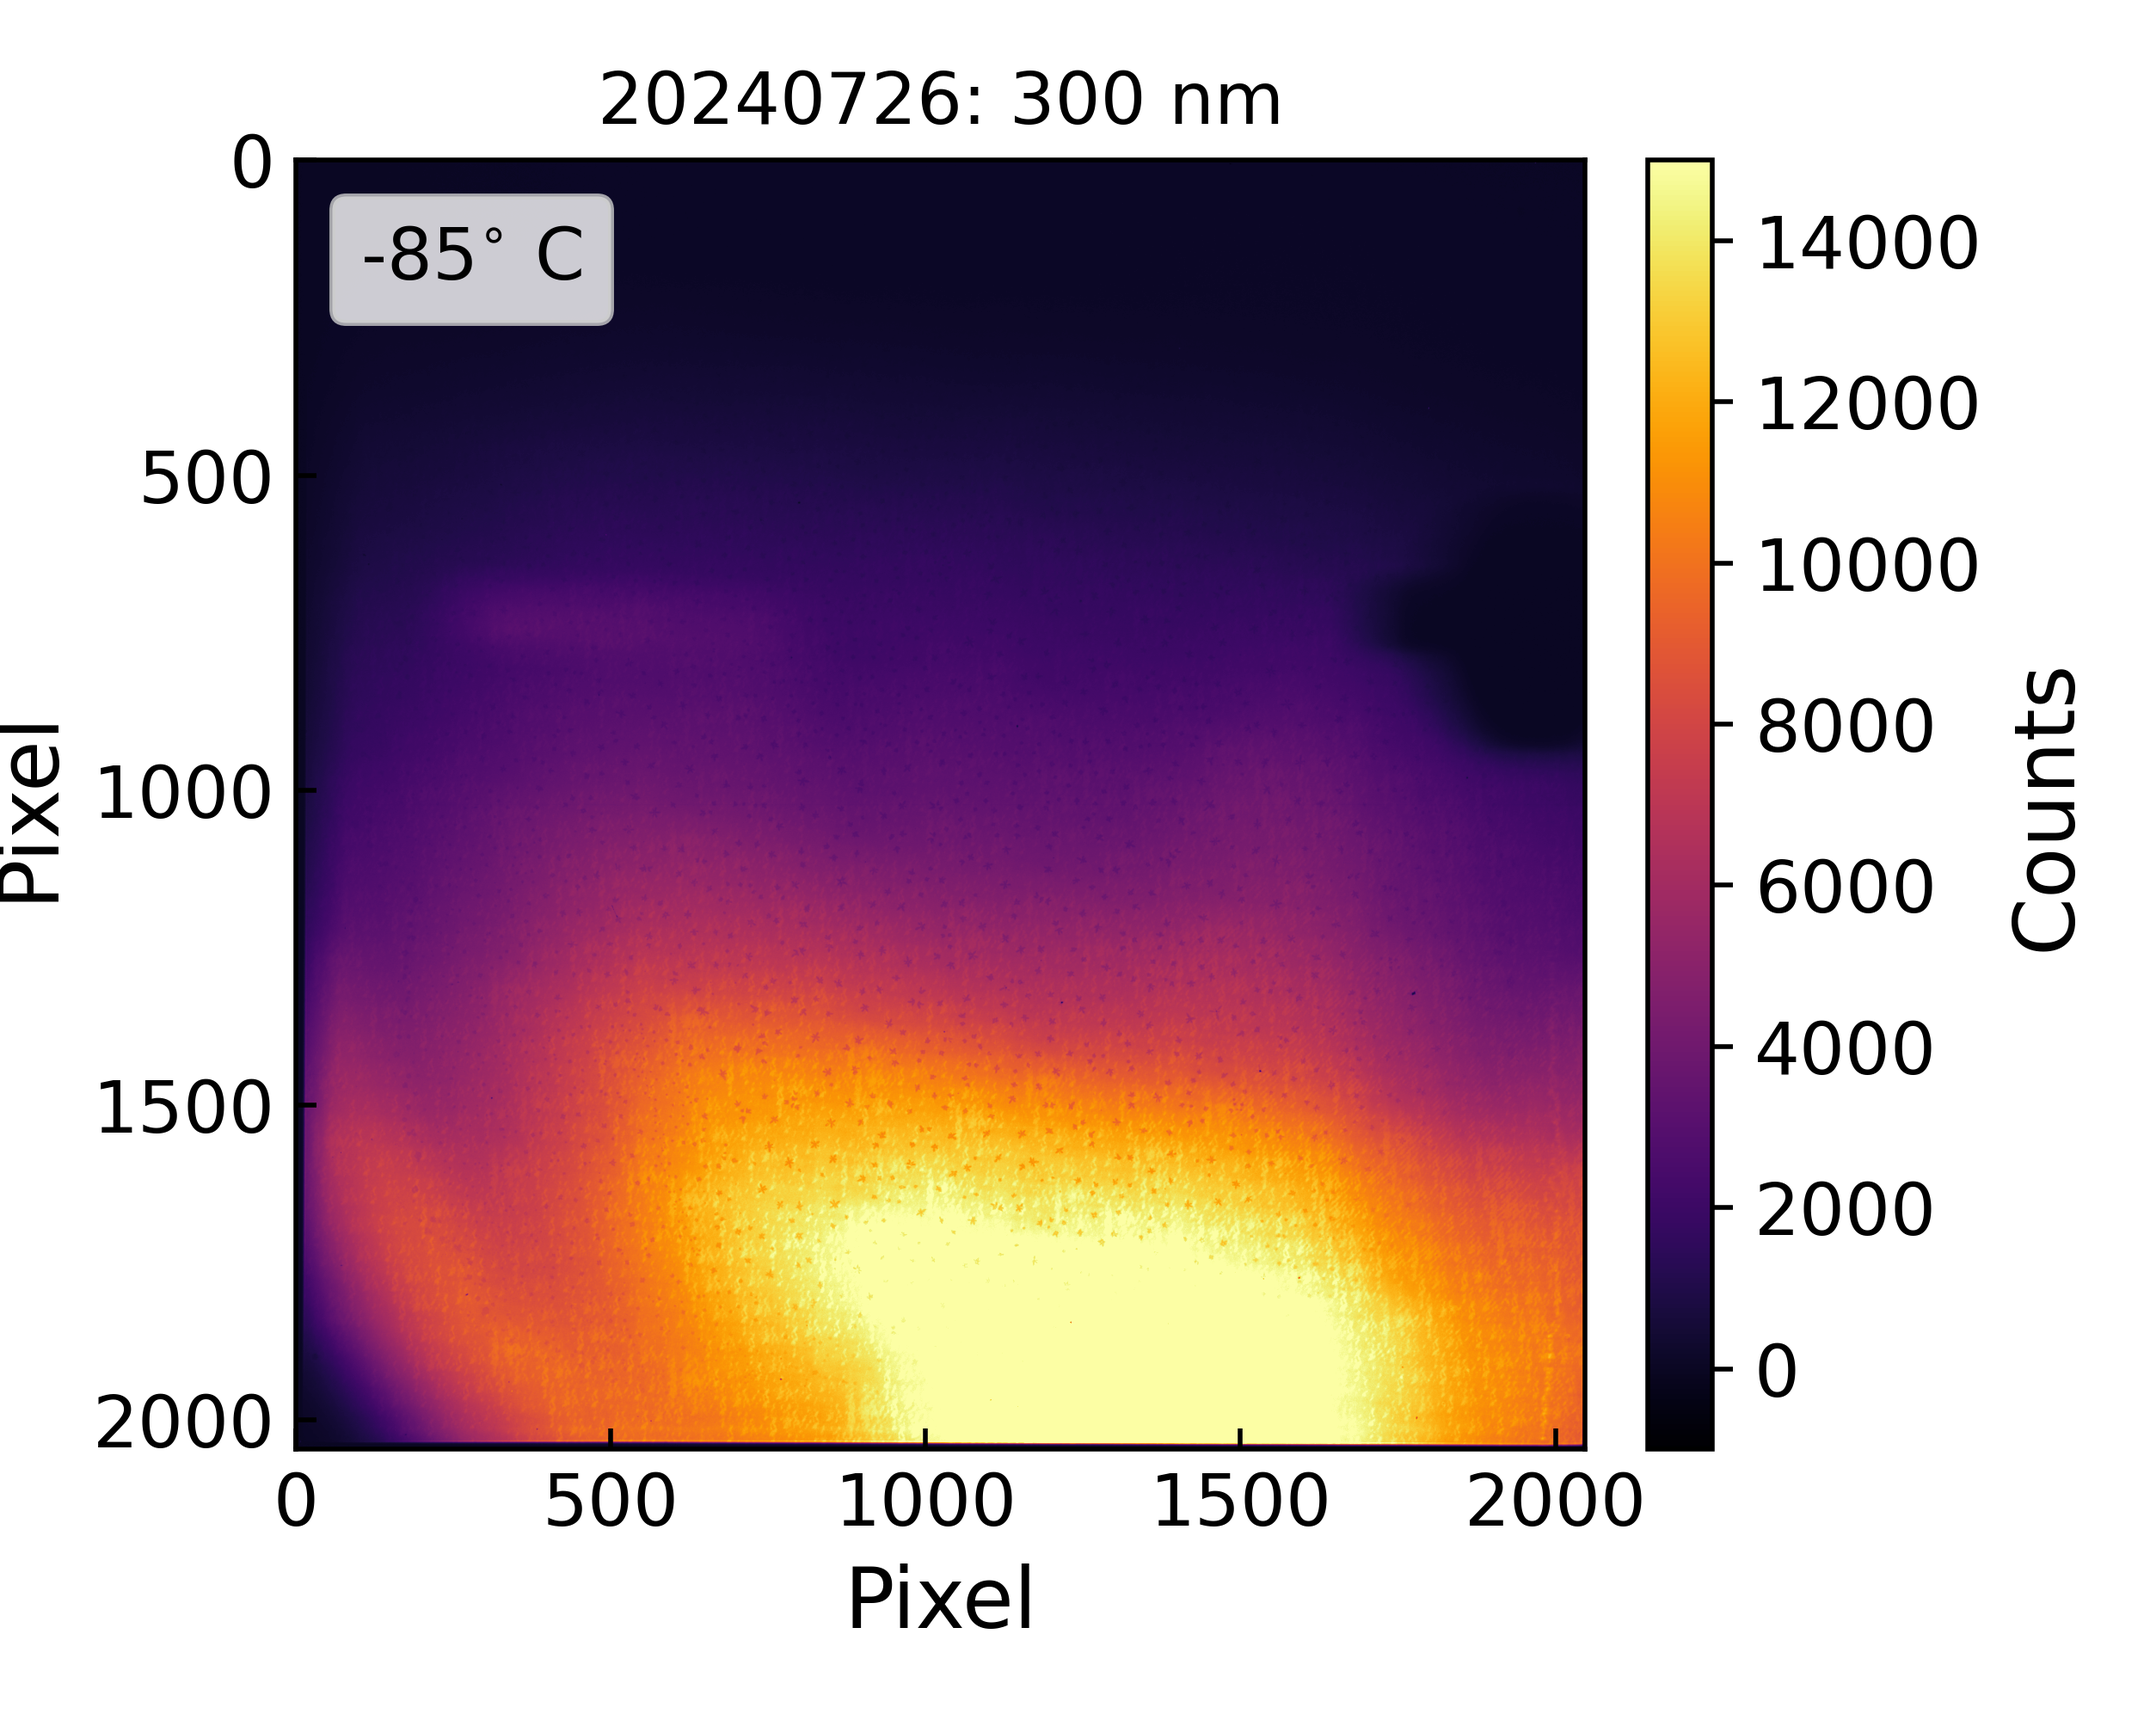
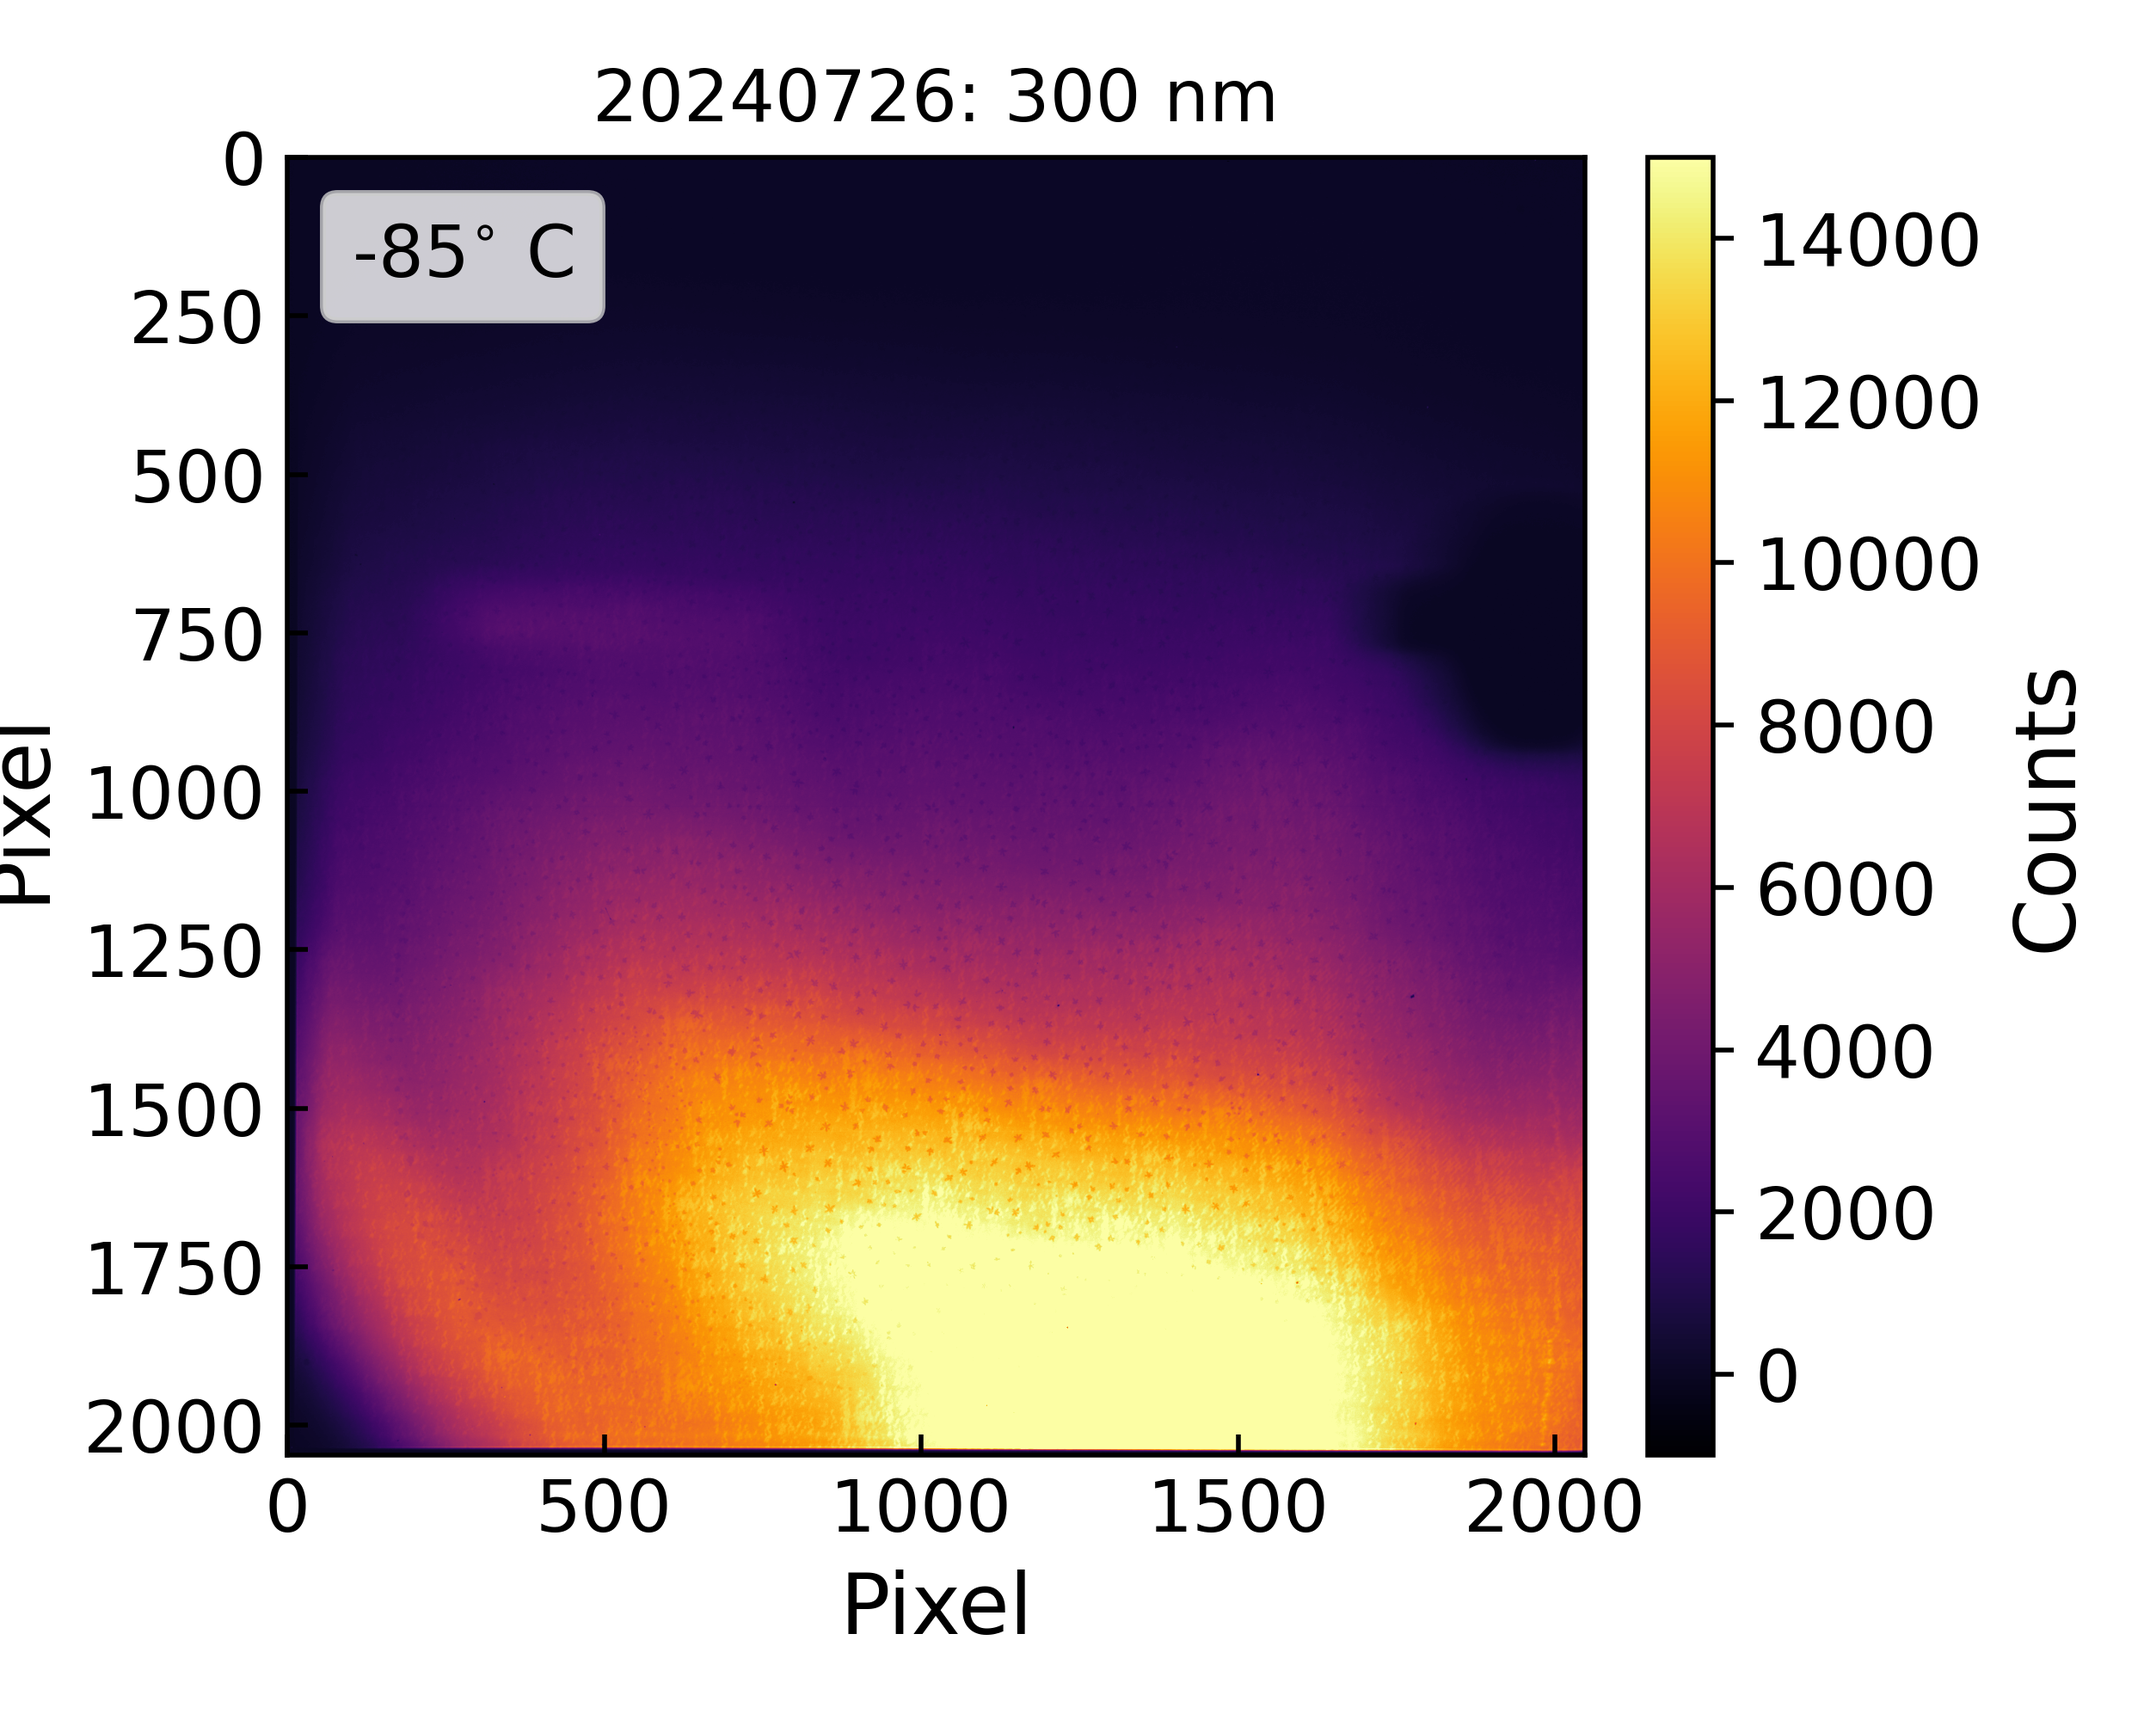
update files

diff --git a/CCDs/Sophia_QE/plot_sophia.py b/CCDs/Sophia_QE/plot_sophia.py
@@ -8,11 +8,12 @@ Created on Mon Aug  5 10:49:46 2024
 
 import numpy as np
 import matplotlib.pyplot as plt
-import pandas as pd
 from astropy.io import fits
 from matplotlib.colors import LogNorm
 import matplotlib.patches as mpatches
 import matplotlib.lines as mlines
+from astropy.convolution import Gaussian2DKernel
+from astropy.convolution import convolve_fft
 
 plt.rc('axes', labelsize=14)
 plt.rc('figure', titlesize=30)
@@ -21,8 +22,8 @@ plt.rc('ytick', labelsize=12)
 plt.rc('legend', fontsize=12)
 # BP Stylization parameters.
 
-base_dir = r'/home/brockparker/Documents/GitHub/Research/CCDs/Sophia_QE/Data'
-save_dir = r'/home/brockparker/Documents/GitHub/Research/CCDs/Sophia_QE/Photos'
+base_dir = r'/home/baparker/GitHub/Research/CCDs/Sophia_QE/Data'
+save_dir = r'/home/baparker/GitHub/Research/CCDs/Sophia_QE/Photos'
 #base_dir = r'C:\Users\Brock\Documents\Git\Research\CCDs\Sophia_QE\Data'
 #save_dir = r'C:\Users\Brock\Documents\Git\Research\CCDs\Sophia_QE\Photos'
 
@@ -75,7 +76,32 @@ for i, date in enumerate(dates):
         fig.tight_layout()
         plt.savefig(save_dir + r'/Science_{}_{:.0f}_{}.png'.format(date, wl, temp),dpi = 500)
         plt.show()
-                        
-        #also gaussian blur the bad images to see if they look like the good images
         
-#add gaussian blur
+        if date=='20240722':
+            blur = 100 # pixels
+            psf = Gaussian2DKernel(blur)
+
+            convolved_image = convolve_fft(reduced, psf, boundary='fill')
+            
+            fig, ax = plt.subplots(layout='tight', figsize=(5,4))
+
+            image = ax.imshow(convolved_image, vmin=vmins[i][j], vmax=vmaxes[i][j]*0.85, cmap='inferno')#norm=LogNorm(vmin=vmins[i][j], vmax=vmaxes[i][j] ))
+            
+            ax.set_xlabel('Pixel')
+            ax.set_ylabel('Pixel')
+            ax.set_title('Blurred {}: {} nm'.format(date,wl))
+            ax.tick_params(axis='both', direction='in', which='both')
+            plt.colorbar(image, label='Counts', ax=ax, fraction=0.046, pad=0.04)
+            
+            patches = [mlines.Line2D([0], [0], marker='.', markersize=0, label=temp + '$^{{\circ}}$ C', ls='')]
+            plt.legend(handles=patches, loc='upper left', handletextpad=-2)                
+            fig.tight_layout()
+            plt.savefig(save_dir + r'/Science_Blurred_{}_{:.0f}_{}.png'.format(date, wl, temp),dpi = 500)
+            plt.show()
+                        
+
+
+
+
+
+
